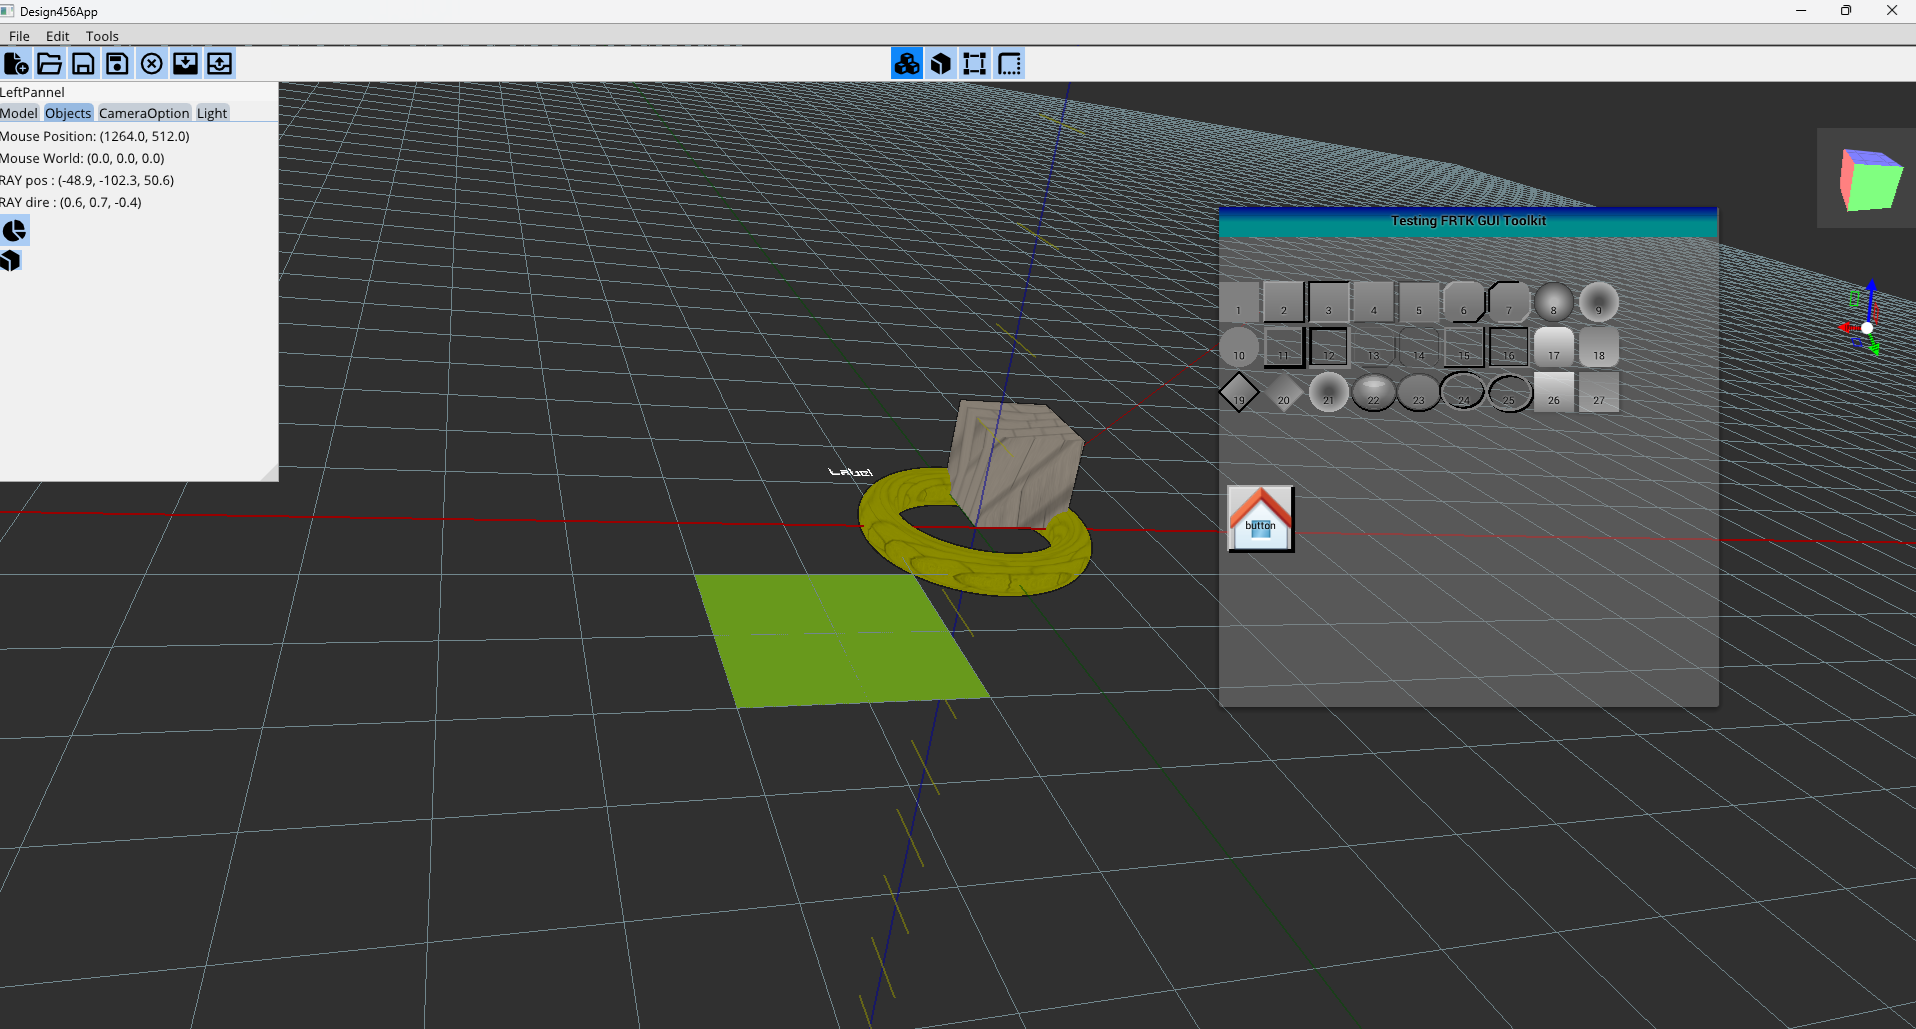
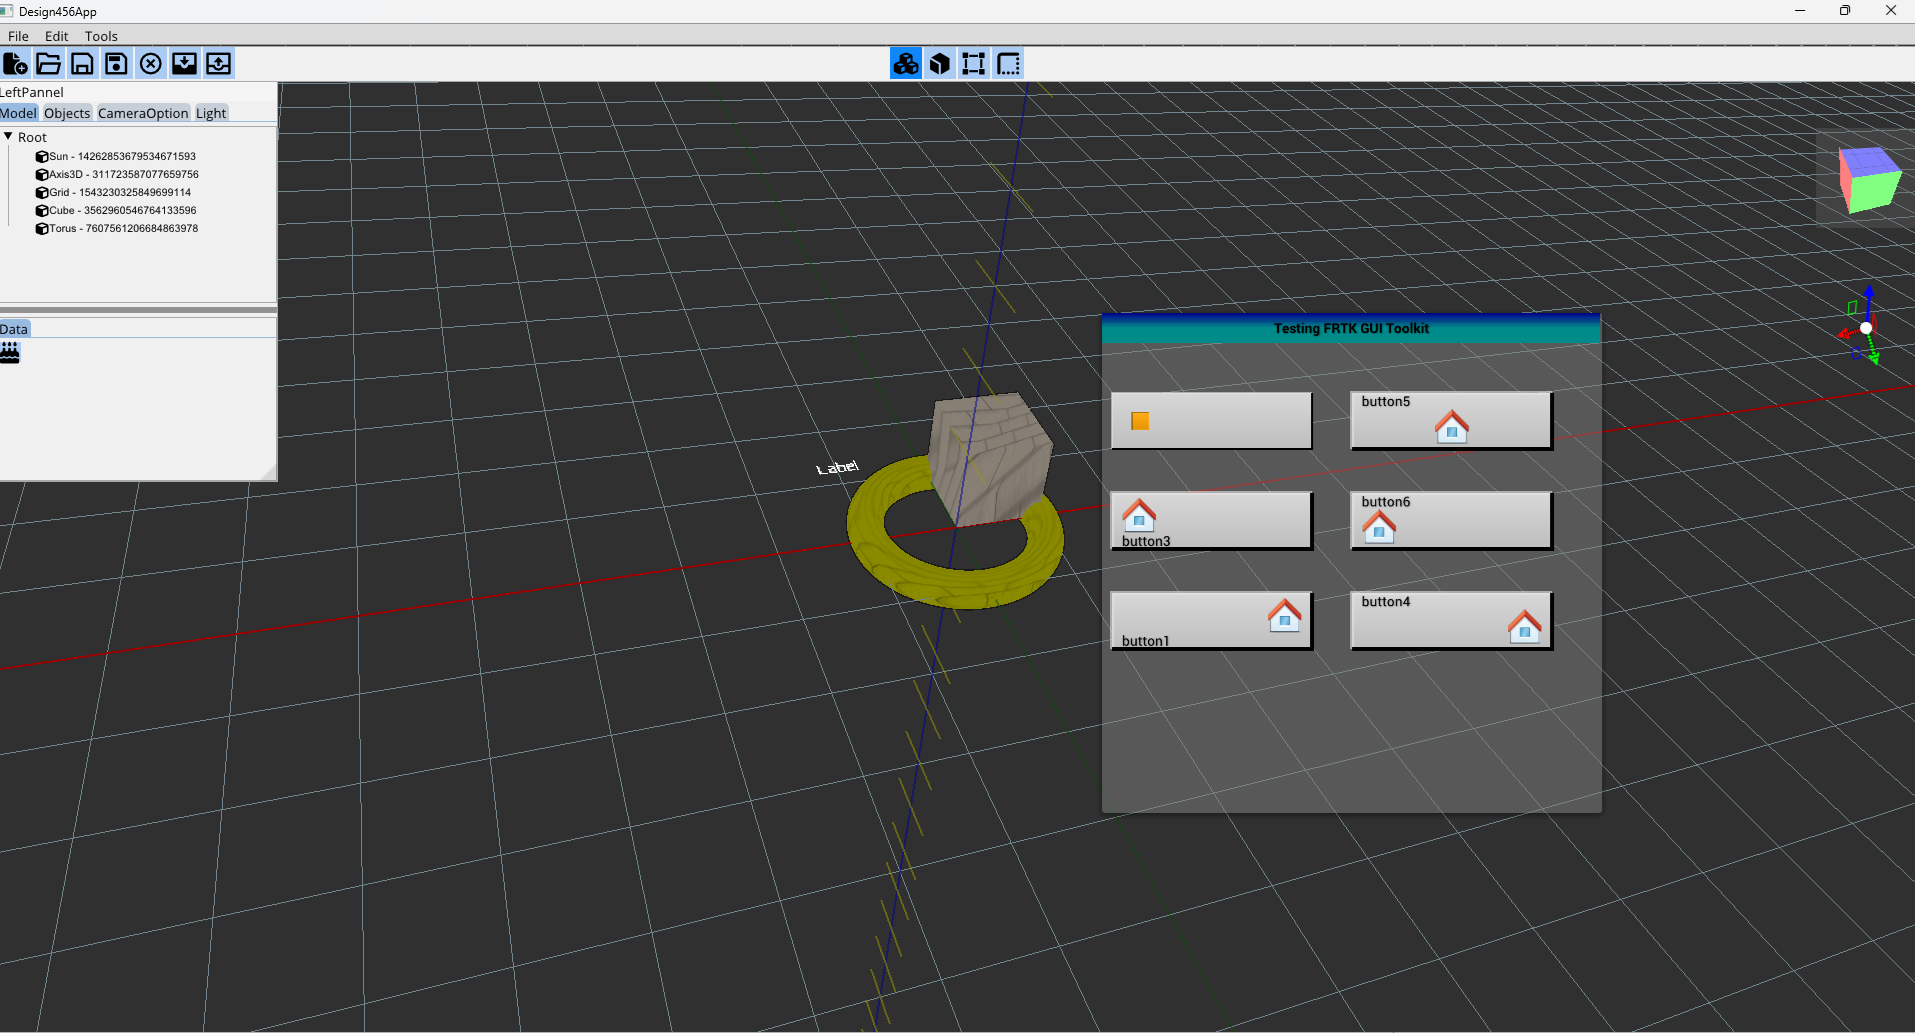
finishing check button

diff --git a/frtk/src/gui_widget/frtk_check_button.cpp b/frtk/src/gui_widget/frtk_check_button.cpp
@@ -24,12 +24,43 @@
 //
 //  Author :Mariwan Jalal    mariwan.jalal@gmail.com
 //
-#include <gui_widget/frtk_check_button.h> 
+#include <gui_widget/frtk_check_button.h>
 
 namespace FR {
     Frtk_Check_Button::Frtk_Check_Button(NVGcontext* vg, float x, float y, float w, float h, std::string l, BOX_TYPE b) :Frtk_Button(vg, x, y, w, h, l, b) {
         m_wdgType = FRTK_CHECK_BUTTON;
+   
+
+    }
+    void Frtk_Check_Button::draw()
+    {
+        Dim_float_t dim = { { m_x,m_y },{m_w,m_h} };
+        const float padding = m_w * 0.1f;
+        const float lightSize = m_h * 0.3f;
+        NVGcolor lightCol = nvgRGBAf(FR_ORANGE);
+        if (m_value) {
+            drawBoxUpDown(m_vg, dim, 0.0f, m_borderWidth,
+                nvgRGBAf(m_color.r, m_color.g, m_color.b, m_color.a),
+                nvgRGBAf(m_borderColor.r, m_borderColor.g, m_borderColor.b, m_borderColor.a), true);
+            dim.pos.x = m_x + padding;
+            dim.pos.y = m_y + m_h / 2 - lightSize / 2;
+            dim.size = { lightSize,lightSize };
+
+            drawBoxUpDown(m_vg, dim, 0.0f, THIN_BORDER,
+                lightCol,
+                nvgRGBAf(m_borderColor.r, m_borderColor.g, m_borderColor.b, m_borderColor.a), false);
+        }
+        else {
+            drawBoxUpDown(m_vg, dim, 0.0f, m_borderWidth,
+                nvgRGBAf(m_color.r, m_color.g, m_color.b, m_color.a),
+                nvgRGBAf(m_borderColor.r, m_borderColor.g, m_borderColor.b, m_borderColor.a), true);
+            dim.pos.x = m_x + padding;
+            dim.pos.y = m_y + m_h / 2 - lightSize / 2;
+            dim.size = { lightSize,lightSize };
+            lightCol = nvgRGBAf(FR_WHITE);
+            drawBoxUpDown(m_vg, dim, 0.0f, THIN_BORDER,
+                lightCol,
+                nvgRGBAf(m_borderColor.r, m_borderColor.g, m_borderColor.b, m_borderColor.a), true);
+        }
     }
 }
-
-

diff --git a/frtk/src/gui_widget/demo.cpp b/frtk/src/gui_widget/demo.cpp
@@ -31,7 +31,7 @@
 #include <gui_widget/frtk_button.h>
 #include <gui_widget/frtk_toolbar.h>
 #include <gui_widget/frtk_toolbar_button.h>
-
+#include <gui_widget/frtk_check_button.h>
 namespace FR {
     std::shared_ptr<Frtk_Window> runFRTKdemo() {
         /*
@@ -72,7 +72,7 @@ namespace FR {
         FF = NN = 40;
         float next = FF + 5;
         std::shared_ptr<Frtk_Button> button1 = std::make_shared<Frtk_Button>(window->getContext(), 10.0f, 250.0f, 200.0f, 56.0f, "button1", FRTK_UP_BOX);
-        std::shared_ptr<Frtk_Button> button2 = std::make_shared<Frtk_Button>(window->getContext(), 10.0f, 50.0f, 200.0f, 56.0f, "button2", FRTK_UP_BOX);
+        std::shared_ptr<Frtk_Check_Button> button2 = std::make_shared<Frtk_Check_Button>(window->getContext(), 10.0f, 50.0f, 200.0f, 56.0f, "button2", FRTK_UP_BOX);
         std::shared_ptr<Frtk_Button> button3 = std::make_shared<Frtk_Button>(window->getContext(), 10.0f, 150.0f, 200.0f, 56.0f, "button3", FRTK_UP_BOX);
 
         std::shared_ptr<Frtk_Button> button11 = std::make_shared<Frtk_Button>(window->getContext(), 250.0f, 250.0f, 200.0f, 56.0f, "button4", FRTK_UP_BOX);
@@ -80,7 +80,7 @@ namespace FR {
         std::shared_ptr<Frtk_Button> button33 = std::make_shared<Frtk_Button>(window->getContext(), 250.0f, 150.0f, 200.0f, 56.0f, "button6", FRTK_UP_BOX);
 
         button1->wdgImage(imagePath);
-        button2->wdgImage(imagePath);
+       // button2->wdgImage(imagePath);
         button3->wdgImage(imagePath);
         button11->wdgImage(imagePath);
         button22->wdgImage(imagePath);

diff --git a/frtk/src/gui_widget/frtk_button.cpp b/frtk/src/gui_widget/frtk_button.cpp
@@ -81,16 +81,27 @@ namespace FR {
     int Frtk_Button::handle(int e) {
         if (should_getEvent(false)) {
             if (e == FR_LEFT_PUSH) {
-                m_value = 1;
+                if (m_wdgType == FRTK_CHECK_BUTTON) {
+                    m_value = ~m_value;
+                    if (m_value == 1) {
+                        m_Image.opacity = 0.5;
+                    }else{
+                        m_Image.opacity = 1.0;
+                    }
+                }else{
+                    m_value = 1;
+                    m_Image.opacity = 0.5;
+                }
                 callback();
-                m_Image.opacity = 0.5;
                 return 1;
             }
             else if (e == FR_LEFT_RELEASE) {
+                if (m_wdgType != FRTK_CHECK_BUTTON){
                 m_value = 0;
                 m_Image.opacity = 1.0f;
-                //callback(); Optional if you want to execute the callback even when mouse is released.
+                    //callback(); Optional if you want to execute the callback even when mouse is released.
                 return 1;
+                }
             }
         }
         return 0;

diff --git a/frtk/src/gui_widget/frtk_check_button.h b/frtk/src/gui_widget/frtk_check_button.h
@@ -35,6 +35,10 @@ namespace FR {
 	{
 	public:
 		Frtk_Check_Button(NVGcontext* vg, float x, float y, float w, float h, std::string l, BOX_TYPE b = FRTK_UP_BOX);
+	protected:
+		virtual void draw() override;
+
+	private:
 
 	};
 }
